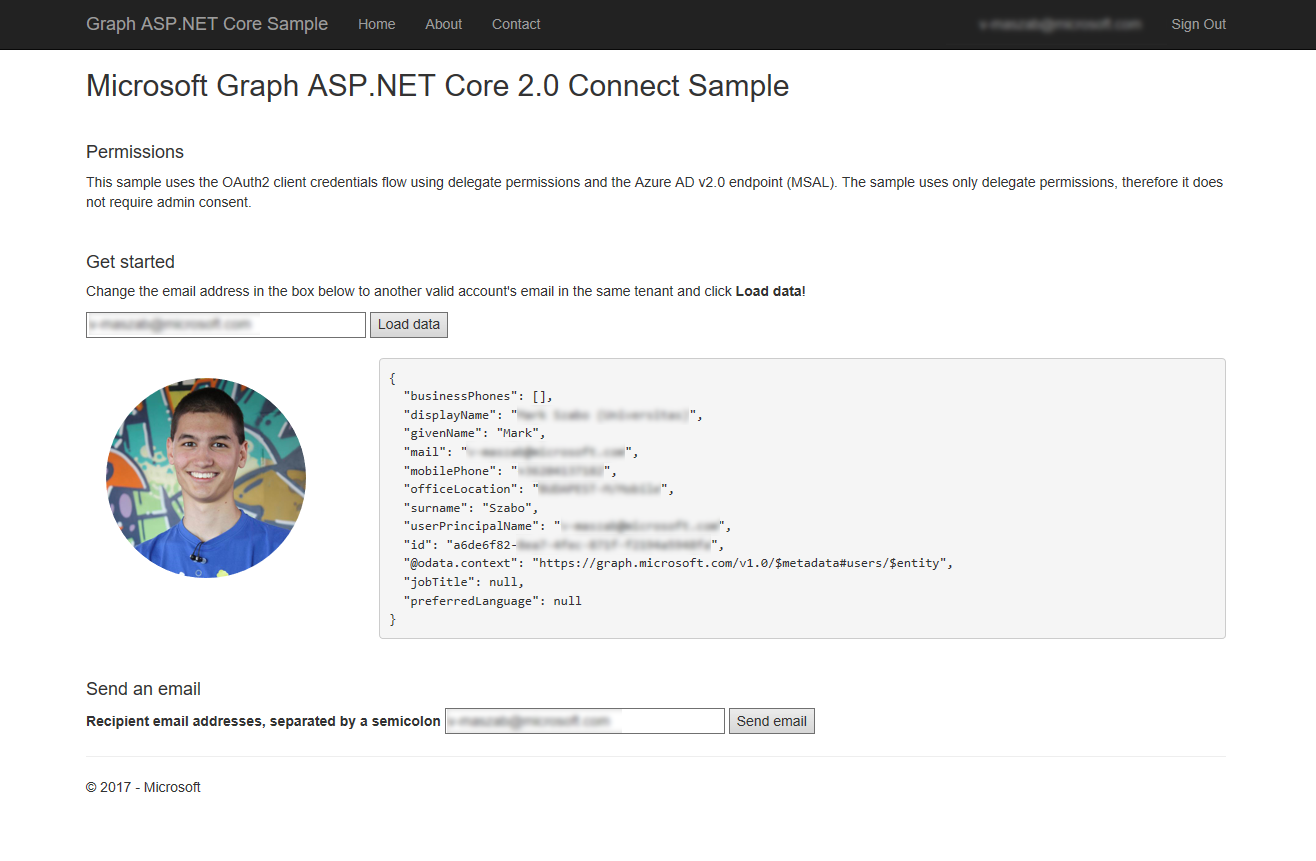
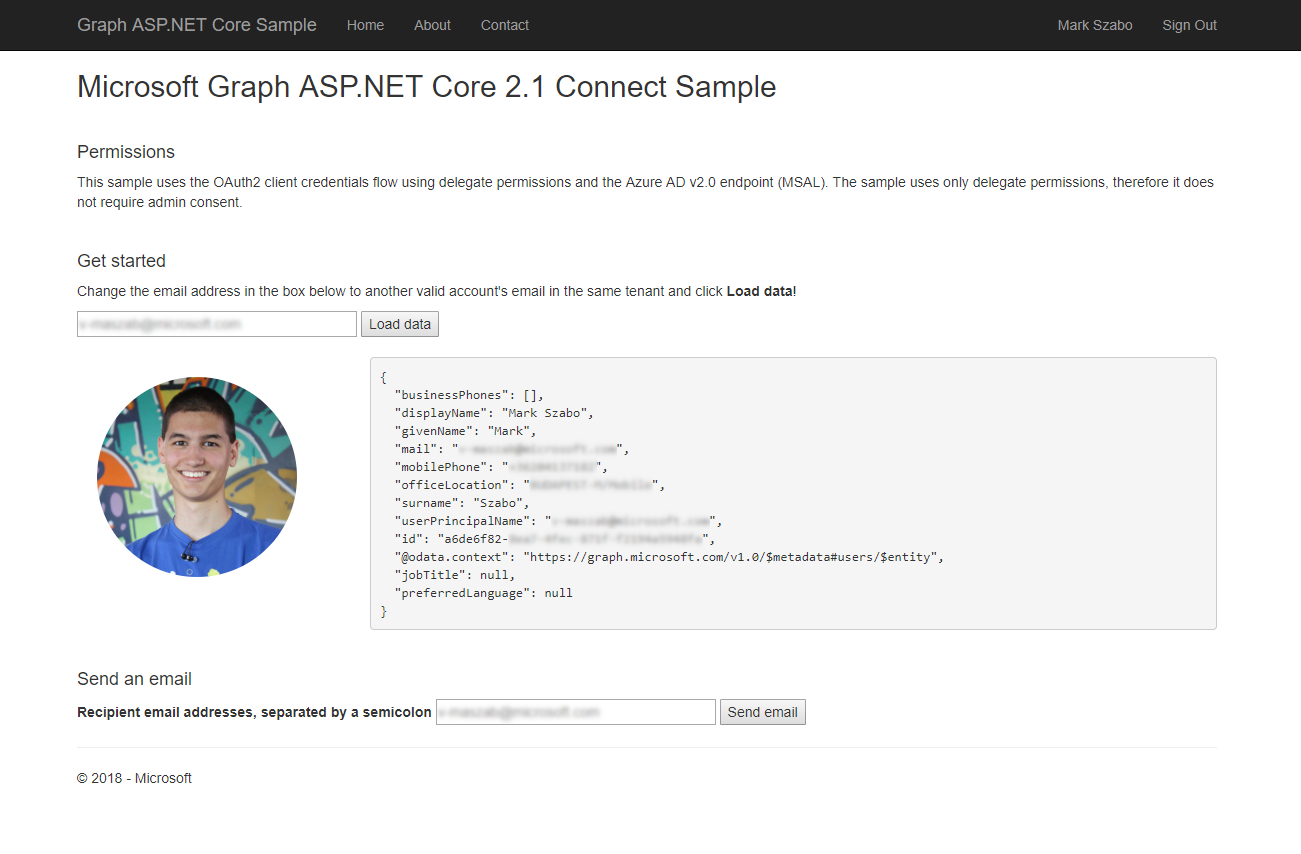
Migrating from ASP.NET Core 2.0 to 2.1
as described in https://docs.microsoft.com/en-us/aspnet/core/migration/20_21

diff --git a/MicrosoftGraphAspNetCoreConnectSample/Startup.cs b/MicrosoftGraphAspNetCoreConnectSample/Startup.cs
@@ -3,14 +3,14 @@
 *  See LICENSE in the source repository root for complete license information. 
 */
 
+using System;
 using Microsoft.AspNetCore.Authentication.Cookies;
 using Microsoft.AspNetCore.Authentication.OpenIdConnect;
-using Microsoft.AspNetCore.Authorization;
 using Microsoft.AspNetCore.Builder;
 using Microsoft.AspNetCore.Hosting;
 using Microsoft.AspNetCore.Http;
+using Microsoft.AspNetCore.HttpsPolicy;
 using Microsoft.AspNetCore.Mvc;
-using Microsoft.AspNetCore.Mvc.Authorization;
 using Microsoft.Extensions.Configuration;
 using Microsoft.Extensions.DependencyInjection;
 using Microsoft.Extensions.Logging;
@@ -51,14 +51,7 @@ namespace MicrosoftGraphAspNetCoreConnectSample
             .AddAzureAd(options => Configuration.Bind("AzureAd", options))
             .AddCookie();
 
-            services.AddMvc(options =>
-            {
-                var policy = new AuthorizationPolicyBuilder()
-                    .RequireAuthenticatedUser()
-                    .Build();
-                options.Filters.Add(new AuthorizeFilter(policy));
-            })
-            .SetCompatibilityVersion(CompatibilityVersion.Version_2_1);
+            services.AddMvc().SetCompatibilityVersion(CompatibilityVersion.Version_2_1);
 
 
             // This sample uses an in-memory cache for tokens and subscriptions. Production apps will typically use some method of persistent storage.
@@ -69,6 +62,12 @@ namespace MicrosoftGraphAspNetCoreConnectSample
             //services.AddSingleton<IConfiguration>(Configuration);
             services.AddSingleton<IGraphAuthProvider, GraphAuthProvider>();
             services.AddTransient<IGraphSdkHelper, GraphSdkHelper>();
+
+            services.Configure<HstsOptions>(options =>
+            {
+                options.IncludeSubDomains = true;
+                options.MaxAge = TimeSpan.FromDays(365);
+            });
         }
 
         // This method gets called by the runtime. Use this method to configure the HTTP request pipeline.
@@ -88,7 +87,7 @@ namespace MicrosoftGraphAspNetCoreConnectSample
 
             app.UseHttpsRedirection();
             app.UseStaticFiles();
-
+            app.UseCookiePolicy();
             app.UseSession();
             app.UseAuthentication();
 

diff --git a/MicrosoftGraphAspNetCoreConnectSample/Program.cs b/MicrosoftGraphAspNetCoreConnectSample/Program.cs
@@ -3,8 +3,8 @@
 *  See LICENSE in the source repository root for complete license information. 
 */
 
-using Microsoft.AspNetCore.Hosting;
 using Microsoft.AspNetCore;
+using Microsoft.AspNetCore.Hosting;
 
 namespace MicrosoftGraphAspNetCoreConnectSample
 {
@@ -12,12 +12,11 @@ namespace MicrosoftGraphAspNetCoreConnectSample
     {
         public static void Main(string[] args)
         {
-            BuildWebHost(args).Run();
+            CreateWebHostBuilder(args).Build().Run();
         }
 
-        public static IWebHost BuildWebHost(string[] args) =>
-        WebHost.CreateDefaultBuilder(args)
-        .UseStartup<Startup>()
-        .Build();
+        public static IWebHostBuilder CreateWebHostBuilder(string[] args) =>
+            WebHost.CreateDefaultBuilder(args)
+                .UseStartup<Startup>();
     }
 }

diff --git a/MicrosoftGraphAspNetCoreConnectSample/Controllers/HomeController.cs b/MicrosoftGraphAspNetCoreConnectSample/Controllers/HomeController.cs
@@ -95,6 +95,11 @@ namespace MicrosoftGraphAspNetCoreConnectSample.Controllers
             return View();
         }
 
+        public IActionResult Privacy()
+        {
+            return View();
+        }
+
         [AllowAnonymous]
         public IActionResult Error()
         {
